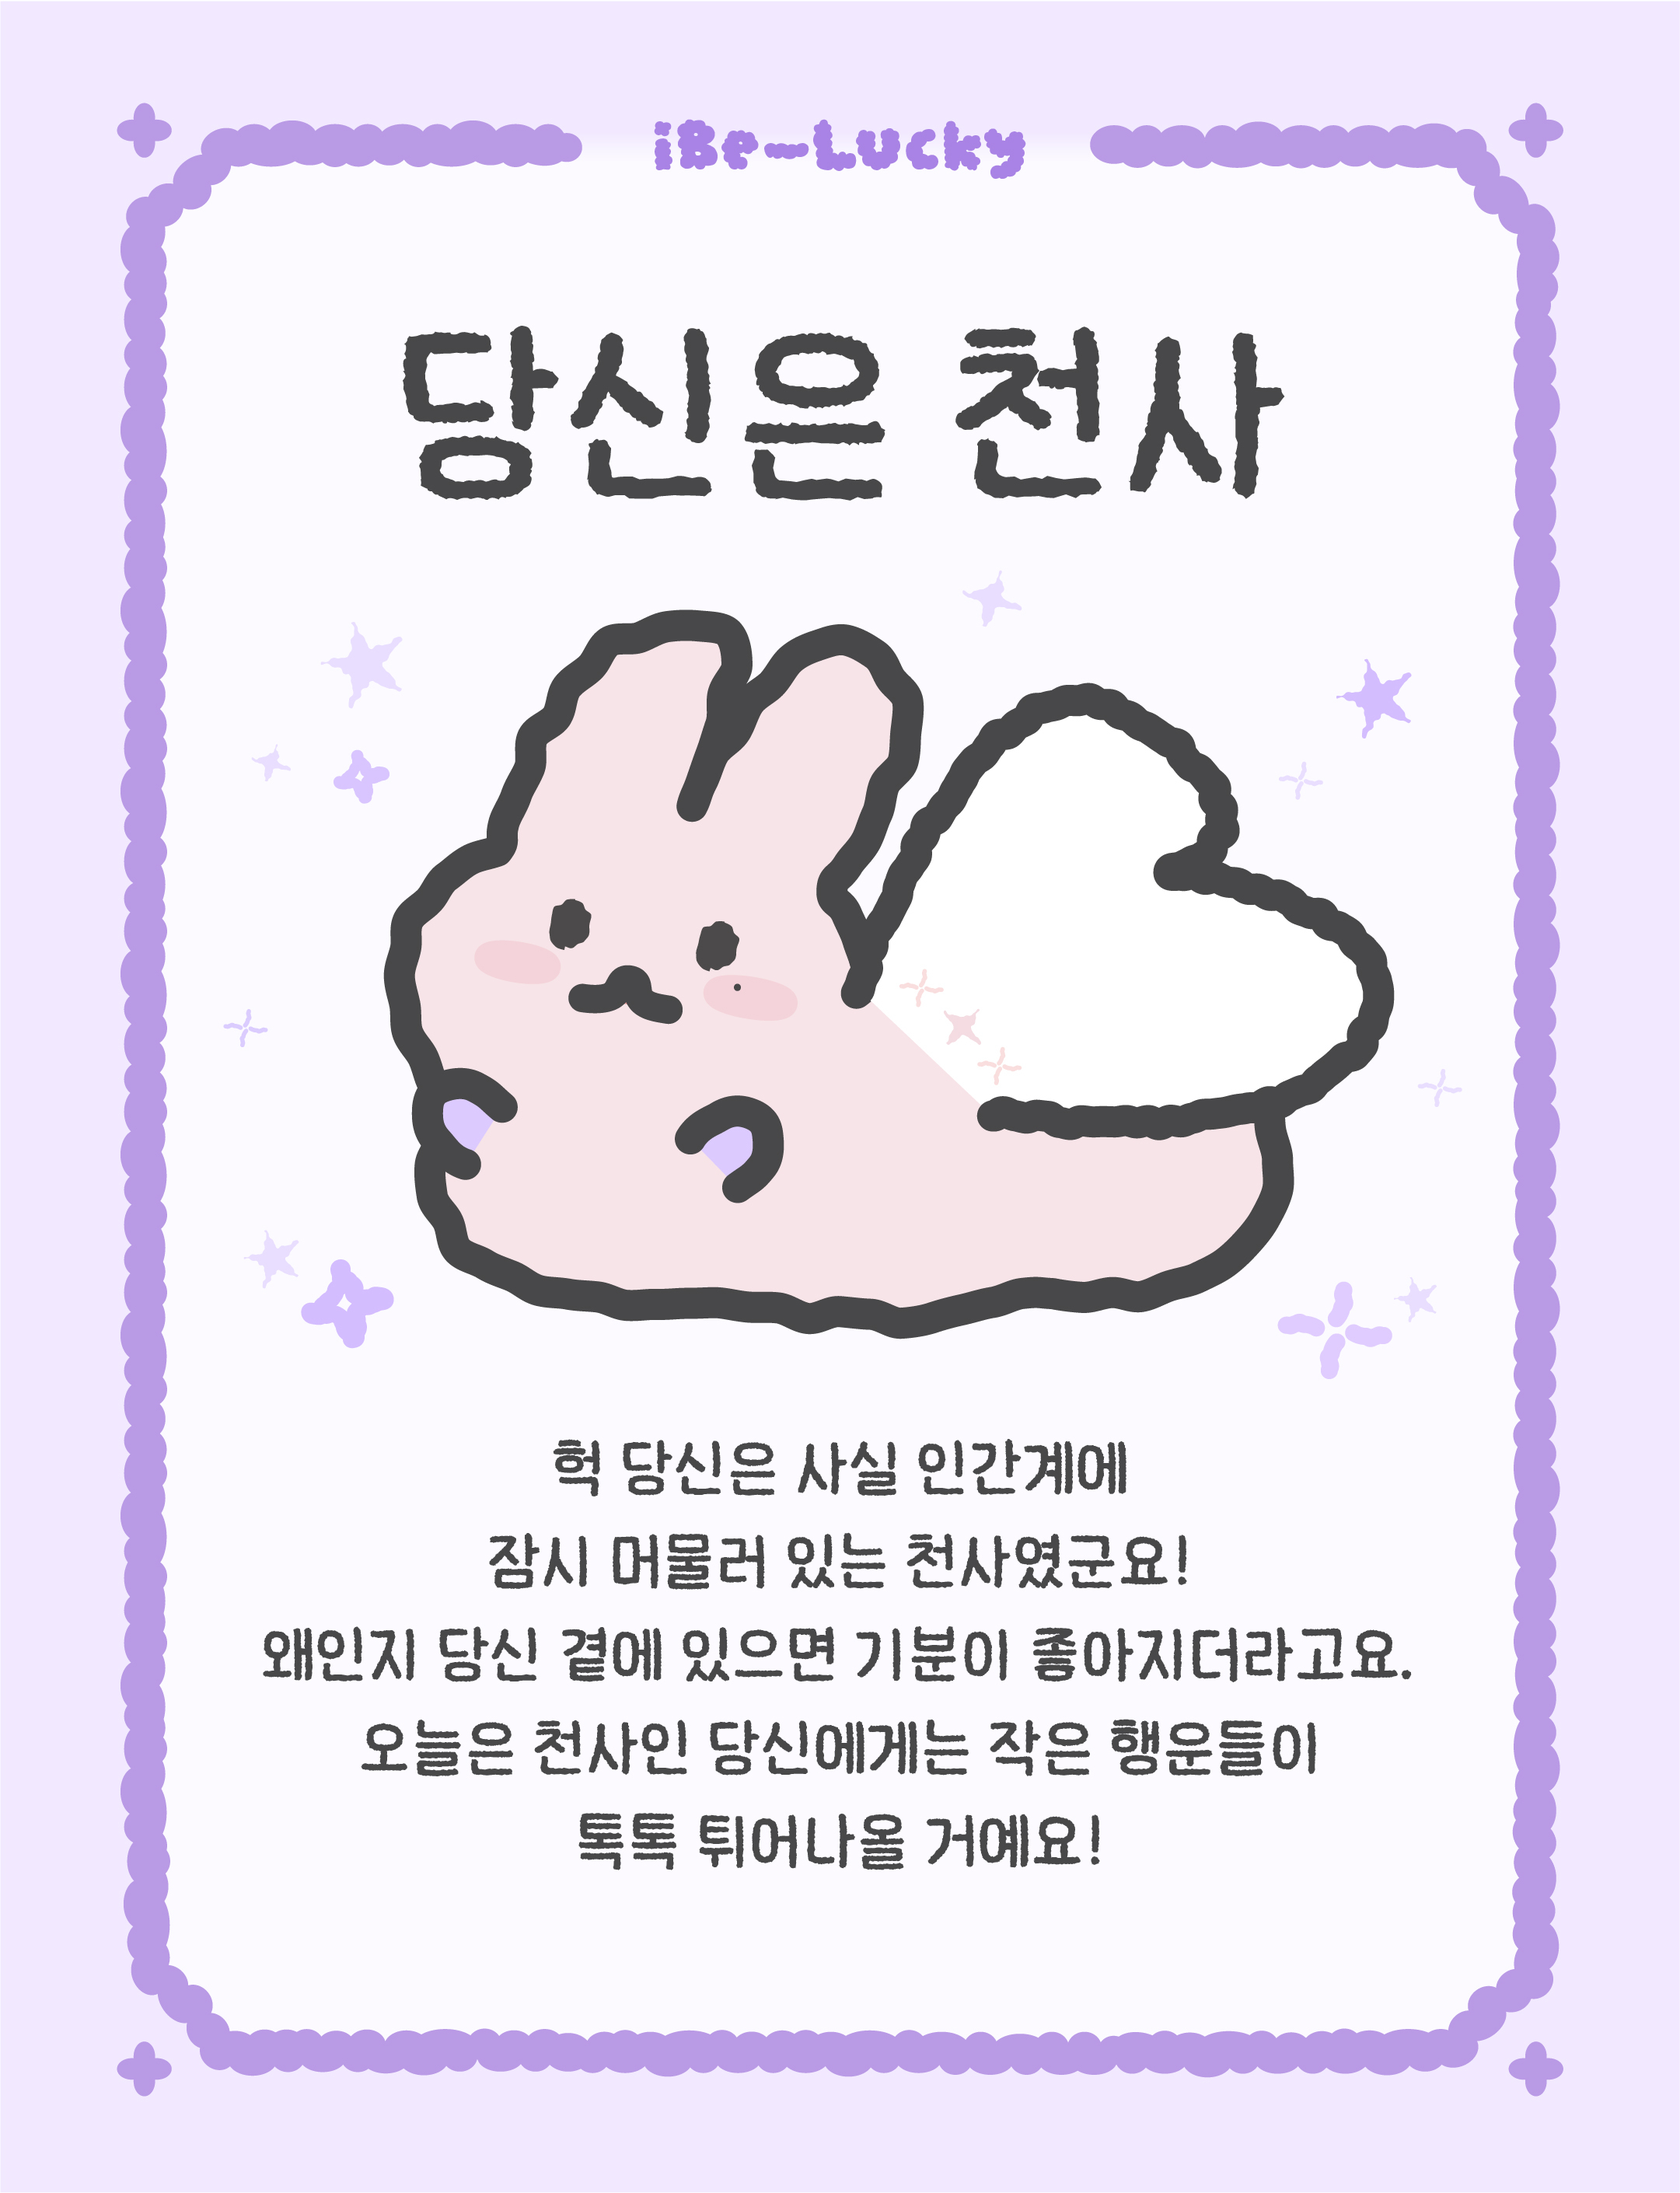
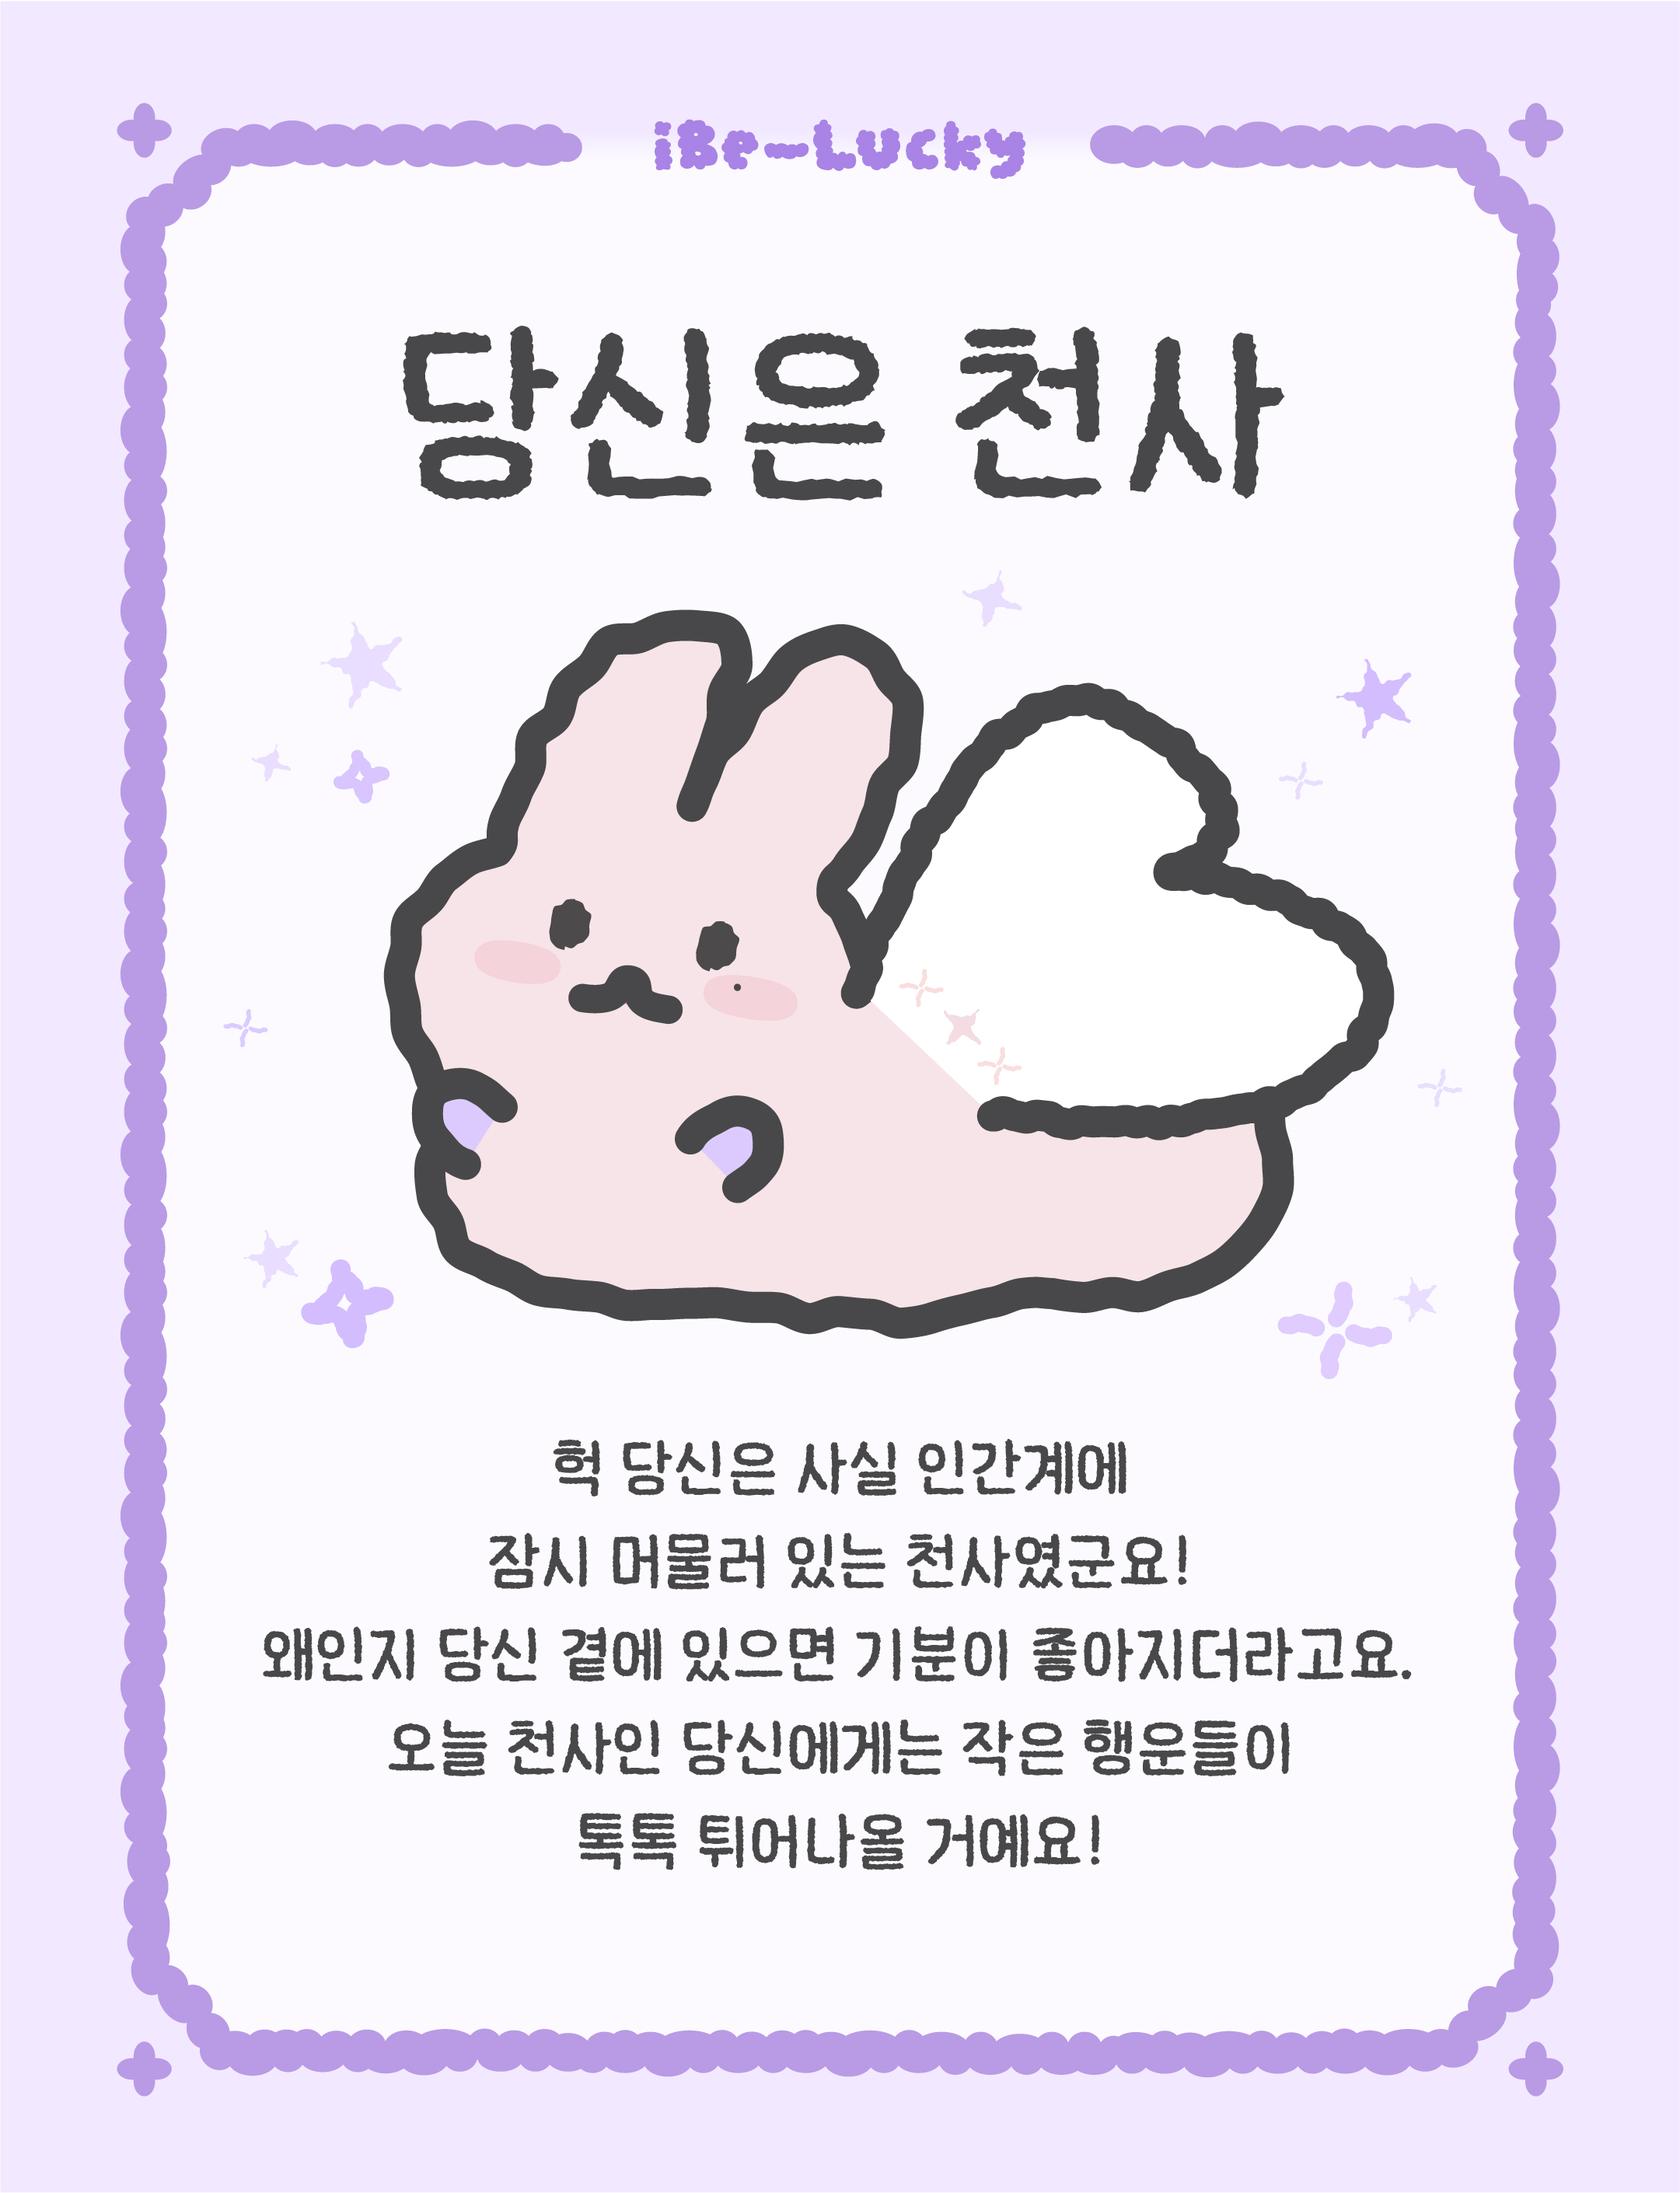
fix: ORNAMENT_MESSAGES 데이터 수정 (#43)

Changed region(s): [[0.217, 0.7799, 0.8061, 0.8111]]

diff --git a/src/data/ornament-message.ts b/src/data/ornament-message.ts
@@ -1,14 +1,14 @@
-import { StaticImageData } from "next/image";
+import { StaticImageData } from 'next/image';
 
-import veryGoodLuckTodayImg from "../assets/images/very-good-luck-today.png";
-import youreAnAngleImg from "../assets/images/youre-an-angel.png";
-import luckyPocketMoneyImg from "../assets/images/lucky-pocket-money.png";
-import noNaggingImg from "../assets/images/no-nagging.png";
-import laughterFullImg from "../assets/images/laughter-full.png";
-import foodLuckFullImg from "../assets/images/food-luck-full.png";
-import blessingMagnet100Img from "../assets/images/blessing-magnet-100.png";
-import goodLuckMaxImg from "../assets/images/good-luck-max.png";
-import cutenessMaxImg from "../assets/images/cuteness-max.png";
+import veryGoodLuckTodayImg from '../assets/images/very-good-luck-today.png';
+import youreAnAngleImg from '../assets/images/youre-an-angel.png';
+import luckyPocketMoneyImg from '../assets/images/lucky-pocket-money.png';
+import noNaggingImg from '../assets/images/no-nagging.png';
+import laughterFullImg from '../assets/images/laughter-full.png';
+import foodLuckFullImg from '../assets/images/food-luck-full.png';
+import blessingMagnet100Img from '../assets/images/blessing-magnet-100.png';
+import goodLuckMaxImg from '../assets/images/good-luck-max.png';
+import cutenessMaxImg from '../assets/images/cuteness-max.png';
 
 export interface OrnamentMessage {
   id: string;
@@ -19,66 +19,66 @@ export interface OrnamentMessage {
 
 export const ORNAMENT_MESSAGES: OrnamentMessage[] = [
   {
-    id: "m1",
-    title: "오늘 운세 매우 좋음",
+    id: 'very-good-luck-today',
+    title: '오늘 운세 매우 좋음',
     message:
-      "축하합니다!\n오늘의 운세는 ‘상상 초과의 좋음'이에요!\n움직이는 것마다 행운이 따라오고, 시도하는 것마다 기분 좋은 결과가 찾아올 예정!\n오늘 하루를 맘껏 즐기세요~",
+      "축하합니다!\n오늘의 운세는 ‘상상 이상의 좋음'이에요!\n움직이는 것마다 행운이 따라오고,\n시도하는 것마다 기분 좋은 결과가 찾아올 예정!\n오늘 하루를 맘껏 즐기세요~",
     resultSrc: veryGoodLuckTodayImg,
   },
   {
-    id: "m2",
-    title: "당신은 천사",
+    id: 'youre-an-angel',
+    title: '당신은 천사',
     message:
-      "헉 당신은 사실 인간계에 잠시 머물러 있는 천사였군요!\n왜인지 당신 곁에 있으면 기분이 좋아지더라고요.\n오늘은 천사인 당신에게는 작은 행운들이 톡톡 튀어나올 거예요!",
+      '헉 당신은 사실 인간계에\n잠시 머물러 있는 천사였군요!\n왜인지 당신 곁에 있으면 기분이 좋아지더라고요.\n오늘 천사인 당신에게는 작은 행운들이\n톡톡 튀어나올 거예요!',
     resultSrc: youreAnAngleImg,
   },
   {
-    id: "m3",
-    title: "세뱃돈 기운 UP",
+    id: 'lucky-pocket-money',
+    title: '세뱃돈 기운 UP',
     message:
-      "럭키!\n오늘 당신의 지갑에 기분 좋은 기운이 스며들었어요!\n직접 받든, 마음으로 받든 왠지 모르게\n든든한 하루가 될 거예요.\n풍요로운 설날 보내요!",
+      '럭키!\n당신의 지갑에 기분 좋은 기운이 스며들었어요!\n직접 받든 마음으로 받든 왠지 모르게\n든든한 하루가 될 거예요.\n풍요로운 설날 보내요!',
     resultSrc: luckyPocketMoneyImg,
   },
   {
-    id: "m4",
-    title: "잔소리 NO",
+    id: 'no-nagging',
+    title: '잔소리 NO',
     message:
-      "축하합니다!\n오늘 하루만큼은 잔소리가 스스르\n피해 가는 행운이 찾아왔어요.\n잔소리 걱정 없이 마음 편히\n웃으면서 설날을 즐기세요!",
+      '축하합니다!\n오늘 하루만큼은 잔소리가 스스르\n피해 가는 행운이 찾아왔어요.\n잔소리 걱정 없이 마음 편히\n웃으면서 설날을 즐기세요!',
     resultSrc: noNaggingImg,
   },
   {
-    id: "m5",
-    title: "웃음 가득",
+    id: 'laughter-full',
+    title: '웃음 가득',
     message:
-      "오늘은 웃음이 자동 재생되는 마법의 하루예요!\n가족과의 대화 속에서 작은 일에도\n빵 터지고 소소한 말 한마디가\n따뜻한 기억으로 남는 설날이 될 거예요!\n아, 너무 웃어서 광대 아플 수 있으니 주의!",
+      '오늘은 웃음이 자동 재생되는 마법의 하루예요!\n가족과의 대화 속에서 빵 터지고\n소소한 말 한마디가\n따뜻한 기억으로 남는 설날이 될 거예요!\n너무 웃어서 광대 아플 수 있으니 조심해요!',
     resultSrc: laughterFullImg,
   },
   {
-    id: "m6",
-    title: "먹을 복 가득",
+    id: 'food-luck-full',
+    title: '먹을 복 가득',
     message:
-      "축하합니다!\n당신은 오늘 맛있는 설음식들을 한가득 먹을 예정이에요!\n먹어도 살이 안 찐다는 어마어마한 행운!\n오늘 하루가 맛있는 행복으로 가득할 거예요!",
+      '축하합니다!\n당신은 오늘 맛있는 설음식들을 한가득 먹을 예정이에요!\n먹어도 살이 안 찐다는 어마어마한 행운!\n오늘 하루가 맛있는 행복으로 가득할 거예요!',
     resultSrc: foodLuckFullImg,
   },
   {
-    id: "m7",
-    title: "덕담 흡수력 100%",
+    id: 'blessing-magnet-100',
+    title: '덕담 흡수력 100%',
     message:
-      "축하합니다!\n오늘 들은 덕담이 하나도 빠짐없이\n당신에게 착 달라붙는 날이에요.\n좋은 말은 다 당신 것!\n풍요로운 설날 보내요!",
+      '축하합니다!\n오늘 들은 덕담이 하나도 빠짐없이\n당신에게 착 달라붙는 날이에요.\n좋은 말은 다 당신 것!\n풍요로운 설날 보내요!',
     resultSrc: blessingMagnet100Img,
   },
   {
-    id: "m8",
-    title: "복 기운 MAX",
+    id: 'good-luck-max',
+    title: '복 기운 MAX',
     message:
-      "축하합니다!\n새해 복이 단단히 포장되어 당신에게\n전달되었어요!\n열기만 하면 되는 상태!\n설날 하루 종일 든든한 기운이 함께할 거예요.",
+      '축하합니다!\n새해 복이 단단히 포장되어 당신에게\n전달되었어요!\n열기만 하면 되는 상태!\n설날 하루 종일 든든한 기운이 함께할 거예요.',
     resultSrc: goodLuckMaxImg,
   },
   {
-    id: "m9",
-    title: "귀여움 MAX",
+    id: 'cuteness-max',
+    title: '귀여움 MAX',
     message:
-      "주의!!!\n오늘은 평소보다 20% 더 귀여움이\n업그레이드되는 날이에요!\n당신의 작은 행동 하나에도 사람들이 쓰러지니\n추파를 조심하세요!",
+      '주의!!!\n오늘은 평소보다 20% 더 귀여움이\n업그레이드되는 날이에요!\n당신의 작은 행동 하나에도 사람들이 쓰러지니\n추파를 조심하세요!',
     resultSrc: cutenessMaxImg,
   },
 ];
